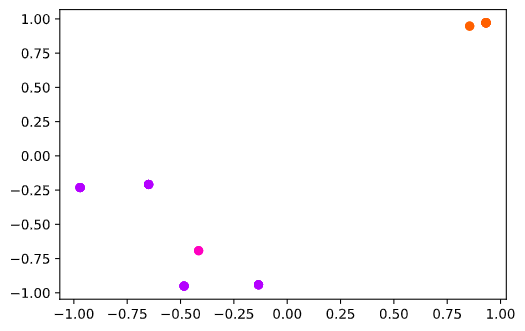
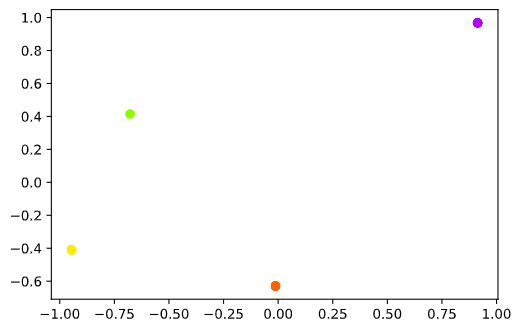
adjusted graphbell

diff --git a/experiments/graph_bell_analysis.py b/experiments/graph_bell_analysis.py
@@ -24,6 +24,8 @@ RESULTS_FILE = ROOT_FOLDER+"/data/train_gb"
 #%% create graph
 
 graph = gb.create_directed_barbell(10, 10)
+graph.remove_edge(21, 20)
+graph.add_edge(29,20, weight=1)
 # correction edge weight for node # 20
 ndic = graph.nodes(data='label1')
 for u, v, d in graph.edges(data=True):
@@ -65,17 +67,29 @@ print(pd_tbl)
 pos = nx.kamada_kawai_layout(graph, scale=10, weight=None)
 node_count = graph.number_of_nodes()
 outdeg = graph.out_degree()
-color = [outdeg[y]/10 for y in range(node_count)]
+colorcodes = {'yellow': 0.1, 'orange': 0.2, 'green': 0.3, 'lightblue': 0.6, 'darkblue': 0.9}
+yellow = [0, 2, 4, 6, 8, 22, 24, 26, 28, 30]
+orange = [1, 3, 5, 7, 21, 23, 25, 27]
+green = [9, 29]
+lightblue = [15]
+darkblue = [10, 11, 12, 13, 14, 16, 17, 18, 19, 20]
+color = [(colorcodes[y], x) for y in ["yellow", 'orange', 'green', 'lightblue', 'darkblue'] for x in globals()[y]]
+color.sort(key = lambda x: x[1])
+color = [y for (y,x) in color]
+cm_col = plt.cm.get_cmap('gist_rainbow', 1000)
+colormp = [cm_col(x) for x in color]
+print(color)
+# color = [outdeg[y]/10 for y in range(node_count)]
 edges, weights = zip(*nx.get_edge_attributes(graph, 'weight').items())
 options = {
-    'node_color': color,
+    'node_color': colormp,
     'node_size': 300,
     'edgelist':edges,
     'edge_color':weights,
     'width': 1,
     'with_labels': True,
     'edge_cmap': plt.cm.Paired,
-    'cmap': plt.cm.gist_rainbow,
+    # 'cmap': plt.cm.gist_rainbow,
     'pos': pos
 }
 nx.draw(graph, **options)
@@ -83,7 +97,7 @@ plt.show()
 
 #%% plot embeddings
 
-cm_col = plt.cm.get_cmap('gist_rainbow', node_count)
+cm_col = plt.cm.get_cmap('gist_rainbow', 1000)
 colormp = [cm_col(x) for x in color]
 plt.scatter(embed[:node_count, 1], embed[:node_count, 2], c=colormp, label='embedding')
 
